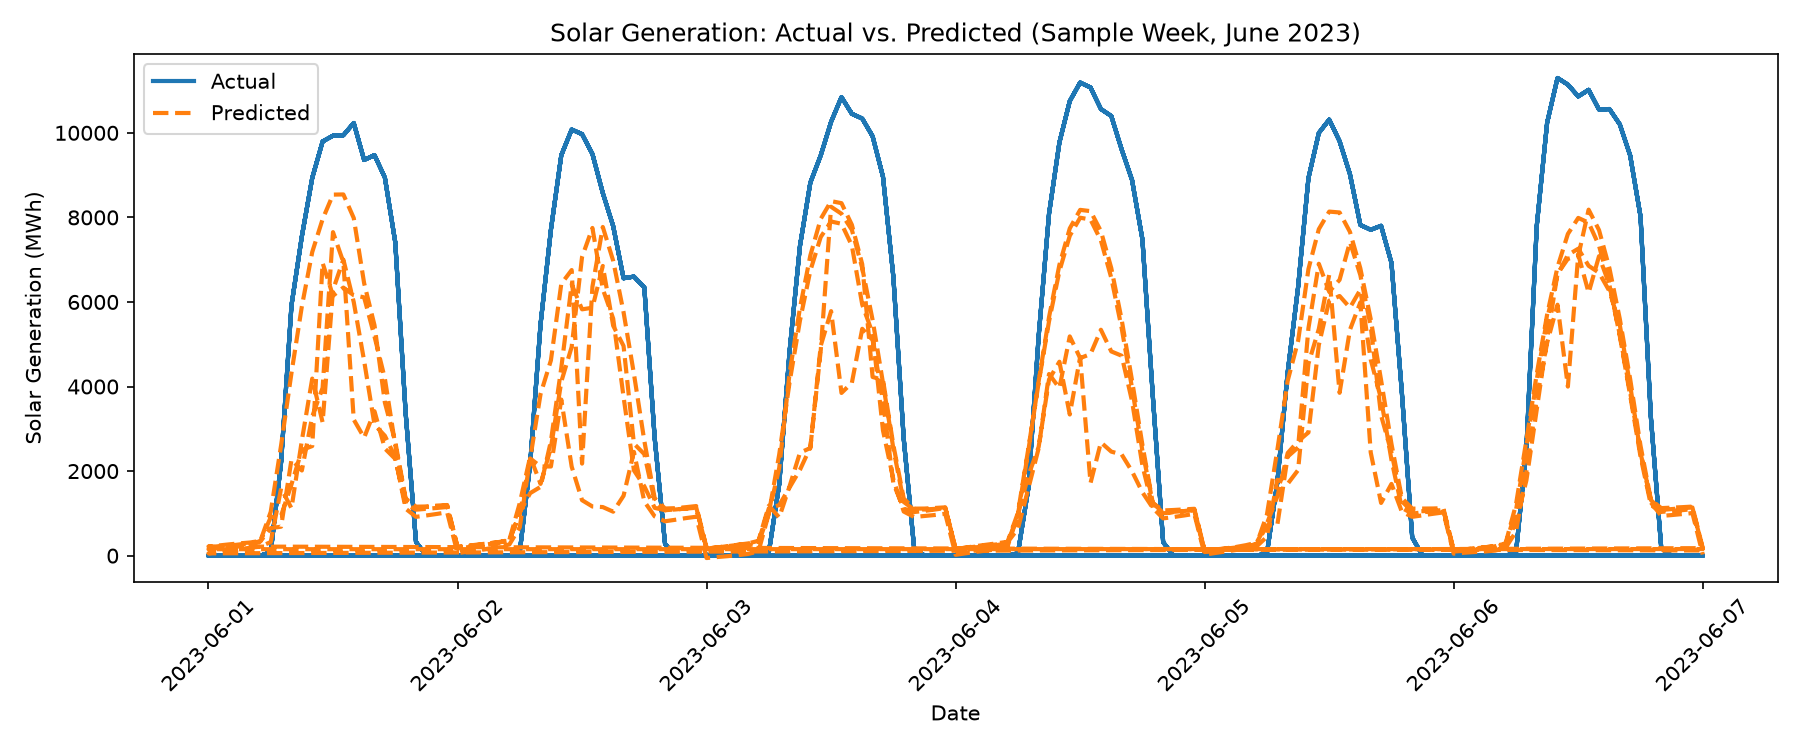
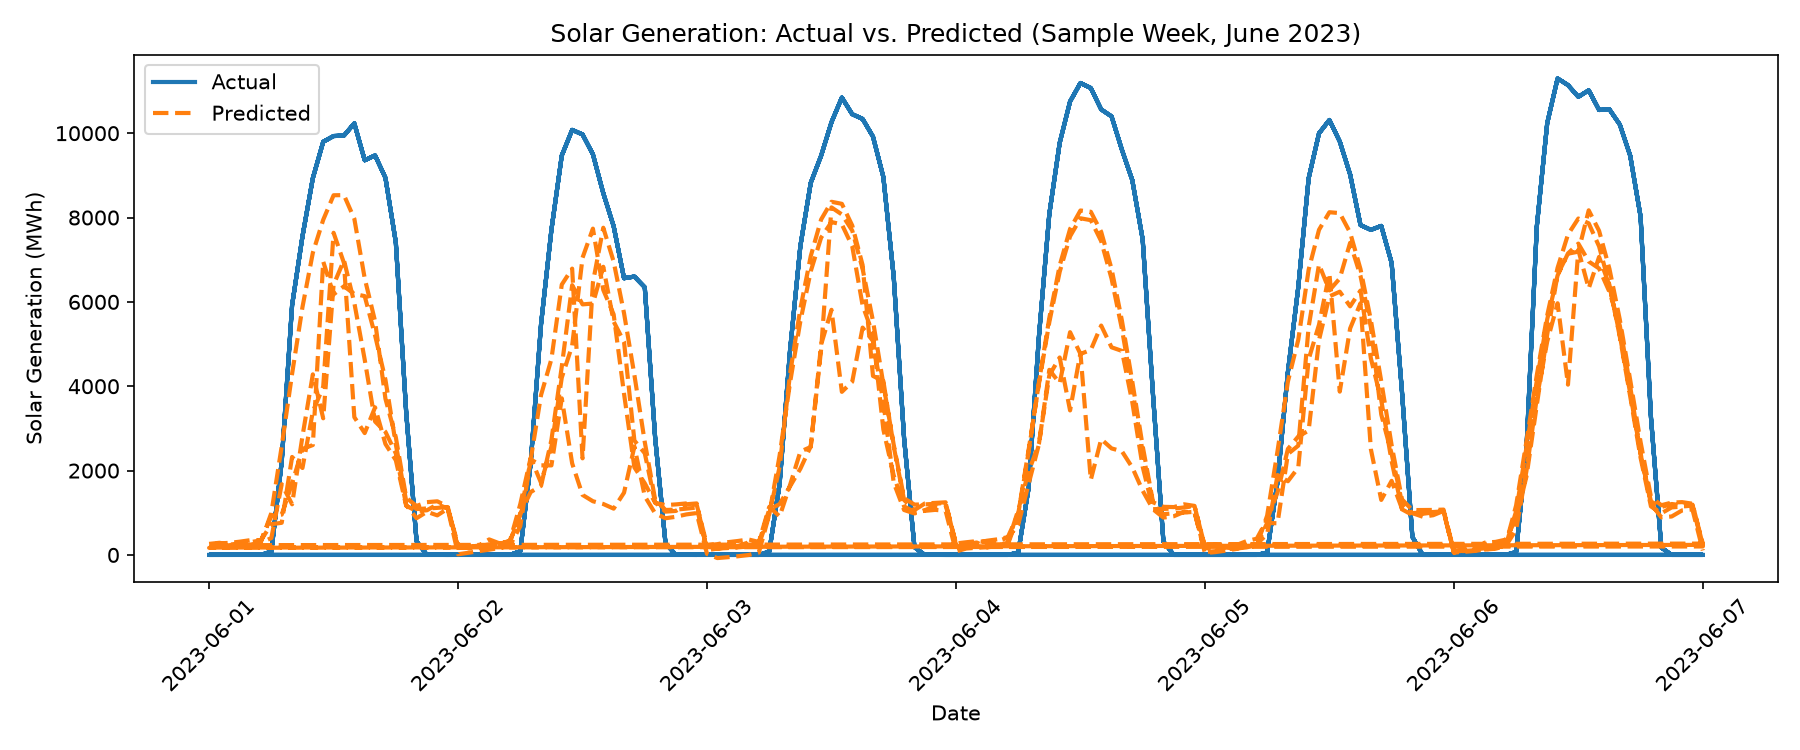
Update README with honest wind speed cubed result, VIF investigation, and comparison charts

diff --git a/train_model.py b/train_model.py
@@ -16,8 +16,8 @@ print("Data with new time-based columns:")
 print(df[["timestamp", "hour", "month", "year"]].head())
 
 # Split chronologically: train on 2021-2022, test on 2023
-train = df[df["year"] < 2023]
-test = df[df["year"] == 2023]
+train = df[df["year"] < 2023].copy()
+test = df[df["year"] == 2023].copy()
 
 print(f"\nTraining set: {train.shape[0]} rows (years 2021-2022)")
 print(f"Testing set: {test.shape[0]} rows (year 2023)")
@@ -25,8 +25,16 @@ print(f"Testing set: {test.shape[0]} rows (year 2023)")
 from sklearn.linear_model import LinearRegression
 from sklearn.metrics import mean_absolute_error, r2_score
 
-# Choose our "inputs" (features) and our "answer" (target) for predicting wind
-features = ["Wind Speed", "Temperature", "hour", "month"]
+# ============================================
+# WIND MODEL
+# ============================================
+
+# New feature: wind power relates to wind speed CUBED (roughly), not wind speed directly.
+# Adding this lets our straight-line model bend to match that real-world curve.
+train["wind_speed_cubed"] = train["Wind Speed"] ** 3
+test["wind_speed_cubed"] = test["Wind Speed"] ** 3
+
+features = ["Wind Speed", "wind_speed_cubed", "Temperature", "hour", "month"]
 target = "wind_generation_mwh"
 
 X_train = train[features]
@@ -35,31 +43,27 @@ y_train = train[target]
 X_test = test[features]
 y_test = test[target]
 
-# Create and train the model
 model = LinearRegression()
 model.fit(X_train, y_train)
 
-# Use the trained model to predict on data it's never seen (2023)
 predictions = model.predict(X_test)
 
-# Check how good the predictions actually are
 mae = mean_absolute_error(y_test, predictions)
 r2 = r2_score(y_test, predictions)
 
-print(f"\nWIND MODEL RESULTS")
+print(f"\nWIND MODEL RESULTS (with wind speed cubed added)")
 print(f"Mean Absolute Error: {mae:.0f} MWh")
 print(f"R² score: {r2:.3f}")
 
-# Let's also see what the model learned - which features matter most
 print(f"\nModel coefficients (how much each feature matters):")
 for feature, coef in zip(features, model.coef_):
     print(f"  {feature}: {coef:.2f}")
 
 # ============================================
-# Now let's do the same thing for SOLAR
+# SOLAR MODEL
 # ============================================
 
-solar_features = ["GHI", "Temperature", "hour", "month"]
+solar_features = ["GHI", "Cloud Type", "Temperature", "hour", "month"]
 solar_target = "solar_generation_mwh"
 
 X_train_solar = train[solar_features]
@@ -84,9 +88,12 @@ print(f"\nModel coefficients (how much each feature matters):")
 for feature, coef in zip(solar_features, solar_model.coef_):
     print(f"  {feature}: {coef:.2f}")
 
+# ============================================
+# Chart: Actual vs Predicted solar generation, sample week
+# ============================================
+
 import matplotlib.pyplot as plt
 
-# Let's visualize how well our solar predictions match reality for a sample week in 2023
 sample_week = test[(test["timestamp"] >= "2023-06-01") & (test["timestamp"] <= "2023-06-07")].copy()
 sample_week_features = sample_week[solar_features]
 sample_week_predictions = solar_model.predict(sample_week_features)
@@ -102,3 +109,31 @@ plt.xticks(rotation=45)
 plt.tight_layout()
 plt.savefig("solar_prediction_chart.png", dpi=150)
 print("\nChart saved to solar_prediction_chart.png")
+
+# ============================================
+# VIF check: formally confirming the multicollinearity we found manually
+# ============================================
+
+from statsmodels.stats.outliers_influence import variance_inflation_factor
+
+vif_data = train[solar_features].copy()
+
+print("\n" + "=" * 50)
+print("VIF CHECK (solar model features)")
+print("A VIF above ~5-10 signals real multicollinearity")
+print("=" * 50)
+
+for i, feature in enumerate(solar_features):
+    vif_value = variance_inflation_factor(vif_data.values, i)
+    print(f"  {feature}: VIF = {vif_value:.2f}")\
+
+    import matplotlib.pyplot as plt
+
+plt.figure(figsize=(8, 5))
+plt.scatter(train["hour"], train["GHI"], alpha=0.1, s=5)
+plt.xlabel("Hour of Day")
+plt.ylabel("GHI (Sunlight)")
+plt.title("GHI vs Hour of Day (checking for a non-linear relationship)")
+plt.savefig("ghi_vs_hour_check.png", dpi=150)
+print("Saved ghi_vs_hour_check.png")
+    

diff --git a/README.md b/README.md
@@ -36,10 +36,14 @@ Midland, Sweetwater, Fort Stockton, Amarillo.
 
 | Model | Features | MAE (MWh) | R² |
 |---|---|---|---|
-| Wind | Wind Speed, Temperature, hour, month | 4,566 | 0.237 |
+| Wind | Wind Speed, Wind Speed³, Temperature, hour, month | 4,540 | 0.243 |
 | Solar | GHI, Cloud Type, Temperature, hour, month | 1,998 | 0.579 |
 
-Solar outperforms wind because irradiance-to-output is a more direct, closer-to-linear relationship than wind speed-to-output, which follows a cubic power curve up to rated capacity and then flattens or cuts out — a nonlinearity a simple linear model cannot represent. ERCOT's wind fleet is also geographically dispersed across hundreds of miles, so four representative weather points inherently capture less of the system-wide picture than they do for solar.
+![Wind vs solar model accuracy comparison](images/wind_vs_solar_accuracy.png)
+
+Solar outperforms wind by a wide margin, and the gap turned out to be more interesting to investigate than to just report. Wind turbines generate power roughly proportional to wind speed cubed, not wind speed directly, so a plain straight-line model should structurally struggle to capture that curve. To test this directly, wind speed cubed was added as an extra input — if the curve were the main problem, this should have produced a large improvement. Instead, R² moved only from 0.237 to 0.243, a negligible change. This rules out the shape of the wind-to-power relationship as the primary bottleneck. The more likely explanation: ERCOT's wind fleet is spread across hundreds of miles of Texas, while this project only measures wind speed at 4 points — a coverage gap that a single mathematical transformation of one already-limited input can't fix. Solar is less affected by this same limitation because sunlight is more spatially uniform across a region at a given time than wind speed is.
+
+This is a hypothesis, not yet a proven fact — it wasn't tested directly by adding more locations. If time allows, adding several more Texas weather points and re-running the wind model would be the natural next step to confirm or reject it.
 
 ![Solar generation: actual vs predicted, sample week June 2023](images/solar_prediction_chart.png)
 
@@ -59,7 +63,13 @@ While inspecting an unusually large generation swing, solar output appeared to p
 
 ### 2. Multicollinearity between GHI and hour-of-day
 
-Even after the timezone fix, solar's GHI coefficient can flip sign depending on which other time-related features are included, because GHI and hour-of-day both encode "is it midday." This was tested directly: removing `hour` dropped R² from 0.467 to 0.111 (confirming `hour` carries real predictive signal), while removing `Cloud Type` left R² and the GHI sign essentially unchanged (ruling it out as the cause). The conclusion: `hour` is retained for its predictive value, and individual coefficient signs in the solar model should not be over-interpreted in isolation — the model's overall R² remains a valid measure of predictive power regardless.
+Even after the timezone fix, solar's GHI coefficient can flip sign depending on which other time-related features are included, because GHI and hour-of-day both encode "is it midday." This was tested manually: removing `hour` dropped R² from 0.467 to 0.111 (confirming `hour` carries real predictive signal), while removing `Cloud Type` left R² and the GHI sign essentially unchanged (ruling it out as the cause).
+
+To confirm this manual finding formally, a Variance Inflation Factor (VIF) test — the standard statistical diagnostic for multicollinearity — was run on all solar model features. The results were low across the board (GHI: 1.46, Cloud Type: 1.04, Temperature: 1.53, hour: 1.04, month: 1.08), all well under the ~5–10 threshold that signals a real problem — seemingly contradicting the manual finding. Plotting GHI against hour resolved the contradiction: GHI follows a clear non-linear, hill-shaped curve across the day (zero at night, peaking near midday), rather than a straight-line relationship. VIF only detects *linear* correlation between variables, so it missed this real, curved overlap entirely. The manual test caught something a standard linear diagnostic could not.
+
+The conclusion: `hour` is retained for its predictive value, and individual coefficient signs in the solar model should not be over-interpreted in isolation. This also illustrates a broader limitation worth noting: standard multicollinearity diagnostics are built around linear relationships, and can miss real overlap between variables that are cyclical or time-of-day-driven, like solar irradiance.
+
+![GHI vs hour of day, showing the non-linear daily curve](images/ghi_vs_hour_check.png)
 
 ## Grid Preparedness Findings
 
@@ -71,7 +81,7 @@ Even after the timezone fix, solar's GHI coefficient can flip sign depending on 
 
 ## Limitations
 
-- Linear regression cannot capture wind power's nonlinear (cubic) relationship with wind speed; a polynomial or tree-based model would likely improve wind R² further.
+- Testing showed wind's low R² is not primarily explained by the nonlinear wind-speed-to-power curve (adding wind speed cubed only improved R² from 0.237 to 0.243). Insufficient spatial coverage of ERCOT's geographically dispersed wind fleet is the more likely cause, though this remains an untested hypothesis — adding more representative wind locations is the natural next step to confirm it.
 - Four weather points are a simplification of ERCOT's dispersed wind and solar fleet; capacity-weighted or a larger set of representative stations would improve location representativeness.
 - The 6-hour timezone correction does not account for daylight saving time (Texas shifts to UTC−5 part of the year), introducing a small residual misalignment during DST months.
 - Solar model coefficients should not be individually interpreted due to the documented GHI/hour multicollinearity; only the model's aggregate predictive accuracy (R²) should be relied on.
